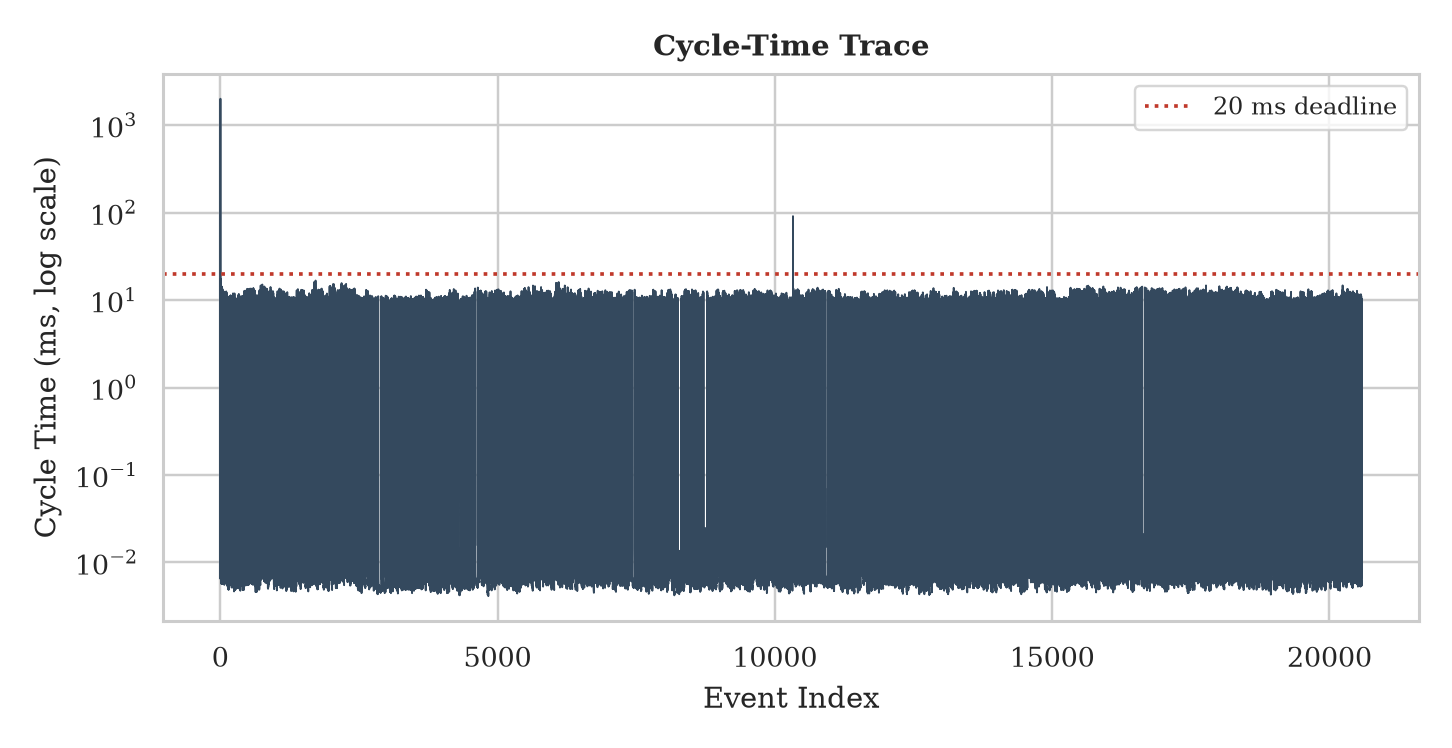
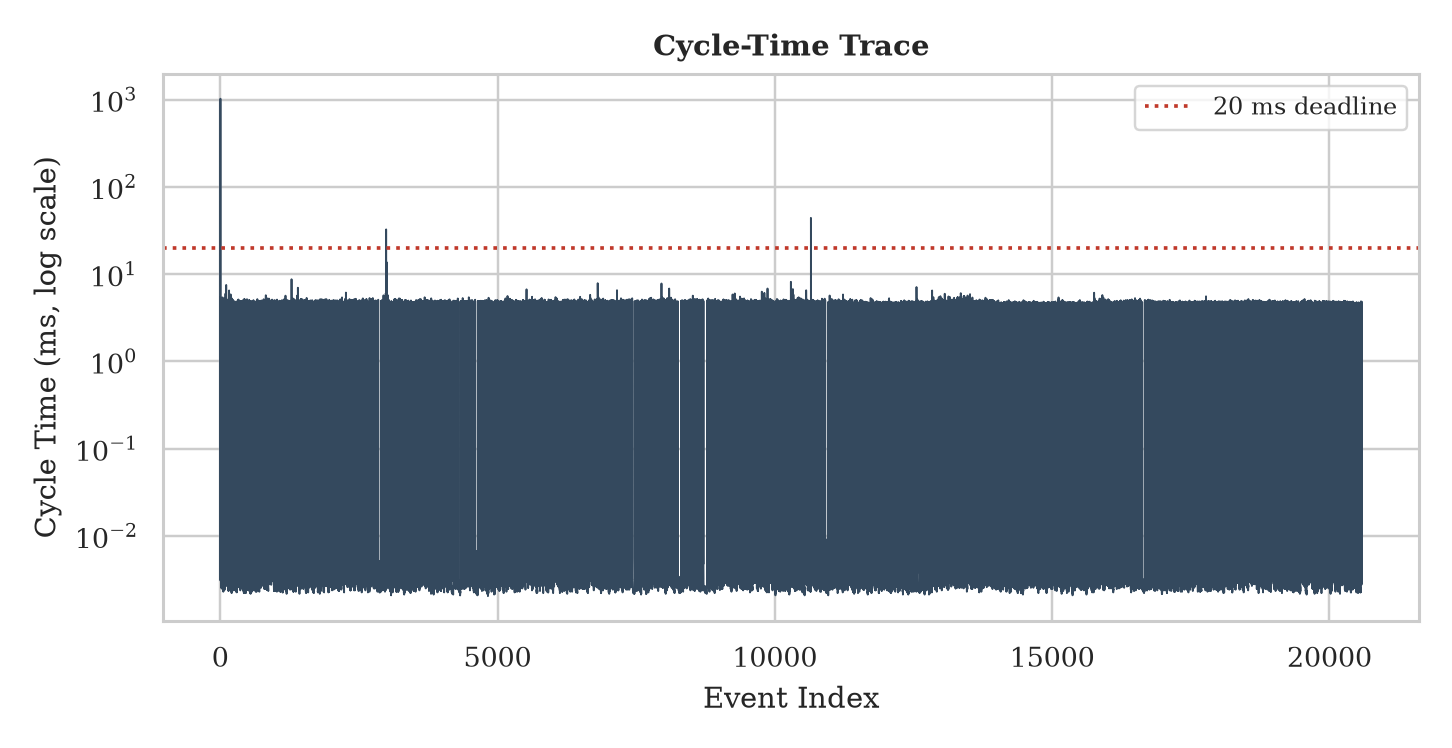
Add pluggable operating-state models and SimBench-based robustness check
Introduces FixedLoadProvider, SyntheticLoadProvider, EmpiricalSampledLoadProvider,
and TimeSeriesLoadProvider so the same pipeline can be run under a fixed baseline,
the existing deterministic table, or real independently-sourced SimBench load
profiles (E1-E4). Adds run_experiment_matrix.py to run all four and compare
violation counts, recall, latency, and loading/redispatch-voltage correlations.
Also fixes a plt.show() hang in generate_figures() that blocked headless runs.

diff --git a/engine.py b/engine.py
@@ -248,6 +248,74 @@ class PhysicsEngine:
 # ==============================================================================
 # SIMULATION CORE
 # ==============================================================================
+class SyntheticLoadProvider:
+    """Deterministic, reproducible hourly load-multiplier table, hashed from
+    the run seed and event index. This is the default operating-state model
+    used throughout the main study (E2)."""
+
+    def __init__(self, multipliers: np.ndarray, seed: int = RUN_SEED):
+        self.multipliers = multipliers
+        self.seed = seed
+
+    def get_multiplier(self, idx: int) -> float:
+        mi = int(hashlib.md5(f"{self.seed}_{idx}".encode()).hexdigest(), 16) % len(self.multipliers)
+        return float(self.multipliers[mi])
+
+
+class FixedLoadProvider:
+    """No operating-state variation: the network's nominal CIGRE loads are
+    used unchanged for every event. Control condition (E1) isolating how
+    much voltage-risk information the redispatch event carries on its own,
+    with background loading held fixed."""
+
+    def get_multiplier(self, idx: int) -> float:
+        return 1.0
+
+
+def load_simbench_profile(column: str = "G0-A_pload", scenario: int = 0) -> np.ndarray:
+    """Real, independently-published load-profile values from SimBench
+    (Meinecke et al. 2020, ODbL-1.0), used as the operating-state source for
+    E3/E4. Decoupled from SimBench's own grid topology: this returns only the
+    relative load-scaling time series, applied here to the unrelated CIGRE MV
+    network. `column` defaults to a general commercial/business profile
+    (BDEW G0-A), the closest standard category to an MV feeder mix."""
+    import simbench as sb
+
+    profiles = sb.get_all_simbench_profiles(scenario)["load"]
+    return profiles[column].to_numpy()
+
+
+class EmpiricalSampledLoadProvider:
+    """Real SimBench load values drawn i.i.d. (with replacement), seeded by
+    run seed and event index, breaking any correlation with event order.
+    Isolates whether the loading-voltage relationship reported under
+    SyntheticLoadProvider (E2) depends on that provider's own deterministic,
+    hashed construction, or holds under an operating-state source sampled
+    independently of the event stream (E3; see Sec. Limitations)."""
+
+    def __init__(self, values: np.ndarray, seed: int = RUN_SEED):
+        self.values = values
+        self.seed = seed
+
+    def get_multiplier(self, idx: int) -> float:
+        rng = np.random.default_rng([self.seed, idx])
+        return float(rng.choice(self.values))
+
+
+class TimeSeriesLoadProvider:
+    """Real SimBench load values used in their original time-ordered
+    sequence (event index modulo profile length), preserving the profile's
+    real temporal structure -- unlike EmpiricalSampledLoadProvider's i.i.d.
+    draws. Tests whether the loading-voltage relationship holds under a
+    realistic, time-varying operating state (E4)."""
+
+    def __init__(self, values: np.ndarray):
+        self.values = values
+
+    def get_multiplier(self, idx: int) -> float:
+        return float(self.values[idx % len(self.values)])
+
+
 class GridSimulator:
     def __init__(self):
         self.prop_ctrl = VoltageAwareController(DER_CAPACITY_MW)
@@ -272,17 +340,19 @@ class GridSimulator:
             1.20, 1.05, 0.81, 0.44
         ])
 
-    def run_streaming_pipeline(self, stream: np.ndarray):
+    def run_streaming_pipeline(self, stream: np.ndarray, load_provider=None):
+        if load_provider is None:
+            load_provider = SyntheticLoadProvider(self.load_multipliers)
         selector = OnlineSmartSelector(stream)
         records = []
         prev = float(stream[0]) if len(stream) else 0.0
 
         for idx, load in enumerate(stream):
             load = float(load)
-            
-            # Apply dynamic load mapping (using deterministic hash to keep events reproducible)
-            mult_idx = int(hashlib.md5(f"{RUN_SEED}_{idx}".encode()).hexdigest(), 16) % len(self.load_multipliers)
-            self.physics.set_dynamic_load(self.load_multipliers[mult_idx])
+
+            # Operating-state model is pluggable (Sec. Experimental Scope);
+            # default reproduces the deterministic synthetic multiplier table.
+            self.physics.set_dynamic_load(load_provider.get_multiplier(idx))
 
             t0 = time.perf_counter()
 
@@ -383,16 +453,18 @@ class GridSimulator:
         summary_df = pd.DataFrame([summary])
         return audited, summary_df
 
-    def run_recall_audit(self, cycle_df: pd.DataFrame, sample_size: int = 500, seed: int = RUN_SEED):
+    def run_recall_audit(self, cycle_df: pd.DataFrame, sample_size: int = 500, seed: int = RUN_SEED, load_provider=None):
         """Estimates the event-selector's false-negative rate on real data.
 
         Non-critical events never receive a physics solve in the streaming
         loop, so we can't know from cycle_df alone whether the selector missed
         any real violations. This draws a random sample of events the selector
         called non-critical and runs real AC power flow on them (replaying the
-        same per-event load multiplier used in the original streaming pass),
+        same per-event operating state used in the original streaming pass),
         to get an honest, sample-based estimate with a confidence interval.
         """
+        if load_provider is None:
+            load_provider = SyntheticLoadProvider(self.load_multipliers)
         noncritical = cycle_df[cycle_df["critical_event"] == False]
         rng = np.random.default_rng(seed)
         n = min(sample_size, len(noncritical))
@@ -401,8 +473,7 @@ class GridSimulator:
 
         converged_flags, violation_flags, vm_results = [], [], []
         for _, row in sample.iterrows():
-            mult_idx = int(hashlib.md5(f"{RUN_SEED}_{int(row['event_idx'])}".encode()).hexdigest(), 16) % len(self.load_multipliers)
-            self.physics.set_dynamic_load(self.load_multipliers[mult_idx])
+            self.physics.set_dynamic_load(load_provider.get_multiplier(int(row["event_idx"])))
             result = self.physics.solve_reference(row["load_mw"])
             converged_flags.append(result.converged)
             vm_results.append(result.min_vm_pu)
@@ -496,7 +567,6 @@ class GridSimulator:
         ax1.legend(fontsize=8, loc="best")
         fig1.tight_layout()
         fig1.savefig(os.path.join(OUTPUT_DIR, "Voltage_Stability.png"))
-        plt.show()
         plt.close(fig1)
 
         fig2, ax2 = plt.subplots(figsize=(6.2, 3.4))
@@ -507,7 +577,6 @@ class GridSimulator:
         ax2.set_ylabel("Million Ops/Sec")
         fig2.tight_layout()
         fig2.savefig(os.path.join(OUTPUT_DIR, "Scalability.png"))
-        plt.show()
         plt.close(fig2)
 
         fig4, ax4 = plt.subplots(figsize=(6.6, 3.4))
@@ -520,7 +589,6 @@ class GridSimulator:
         ax4.legend(fontsize=8)
         fig4.tight_layout()
         fig4.savefig(os.path.join(OUTPUT_DIR, "Cycle_Time_Trace.png"))
-        plt.show()
         plt.close(fig4)
 
 

diff --git a/run_experiment_matrix.py b/run_experiment_matrix.py
@@ -1,0 +1,115 @@
+"""
+Runs the E1-E4 operating-state experiment matrix requested in review and
+writes final_output/experiment_matrix.csv.
+
+Each row applies the same real redispatch event stream and the same
+selector/validation pipeline; only the operating-state (load) model differs:
+
+  E1  FixedLoadProvider           nominal CIGRE loads, no variation (control)
+  E2  SyntheticLoadProvider       deterministic hashed table (main-study default)
+  E3  EmpiricalSampledLoadProvider  real SimBench values, drawn i.i.d. per event
+  E4  TimeSeriesLoadProvider      real SimBench values, in original time order
+
+Usage
+-----
+    python run_experiment_matrix.py
+"""
+import numpy as np
+import pandas as pd
+
+from engine import (
+    GridSimulator,
+    LocalCsvIngestionLayer,
+    FixedLoadProvider,
+    SyntheticLoadProvider,
+    EmpiricalSampledLoadProvider,
+    TimeSeriesLoadProvider,
+    load_simbench_profile,
+    OUTPUT_DIR,
+)
+import os
+
+
+def summarize_run(label, cycle_df, recall_summary_df, load_provider, simulator):
+    critical = cycle_df[cycle_df["critical_event"] == True]
+    solved = critical.dropna(subset=["raw_vm_ref_pu"])
+    n_events = len(cycle_df)
+    n_critical = len(critical)
+    n_violations = int((solved["raw_vm_ref_pu"] < 0.90).sum())
+    n_solver_failures = int((~solved["converged"]).sum())
+
+    recall_row = recall_summary_df.iloc[0]
+    fn_rate = recall_row["estimated_fn_rate"]
+    est_missed = recall_row["estimated_missed_violations_in_population"]
+    est_total_violations = n_violations + est_missed
+    est_recall = n_violations / est_total_violations if est_total_violations else float("nan")
+
+    critical_latency = critical["cycle_time_ms"]
+    deadline_miss_rate = (critical["deadline_miss"].sum() / n_critical) if n_critical else float("nan")
+
+    # r(load multiplier, voltage) and r(redispatch magnitude, voltage) on solved critical events
+    if len(solved) > 2:
+        multipliers = np.array([load_provider.get_multiplier(int(idx)) for idx in solved["event_idx"]])
+        v = solved["raw_vm_ref_pu"].to_numpy()
+        redispatch = solved["load_mw"].to_numpy()
+        r_load_v = float(np.corrcoef(multipliers, v)[0, 1]) if np.std(multipliers) > 0 else float("nan")
+        r_redispatch_v = float(np.corrcoef(redispatch, v)[0, 1]) if np.std(redispatch) > 0 else float("nan")
+    else:
+        r_load_v = float("nan")
+        r_redispatch_v = float("nan")
+
+    return {
+        "experiment": label,
+        "n_events": n_events,
+        "n_critical": n_critical,
+        "n_violations": n_violations,
+        "n_solver_failures": n_solver_failures,
+        "sampled_fn_rate": fn_rate,
+        "estimated_recall": est_recall,
+        "nr_calls_critical_path": len(solved),
+        "median_latency_ms": float(critical_latency.median()) if n_critical else float("nan"),
+        "p95_latency_ms": float(critical_latency.quantile(0.95)) if n_critical else float("nan"),
+        "p99_latency_ms": float(critical_latency.quantile(0.99)) if n_critical else float("nan"),
+        "deadline_miss_rate": deadline_miss_rate,
+        "r_load_vs_voltage": r_load_v,
+        "r_redispatch_vs_voltage": r_redispatch_v,
+    }
+
+
+def main():
+    simulator = GridSimulator()
+    ingest = LocalCsvIngestionLayer()
+    stream = ingest.fetch_stream()
+    print(f"Loaded real event stream: n={len(stream)}")
+
+    simbench_vals = load_simbench_profile()
+    print(f"Loaded SimBench profile (G0-A_pload): n={len(simbench_vals)}, "
+          f"min={simbench_vals.min():.4f}, max={simbench_vals.max():.4f}")
+
+    experiments = {
+        "E1_fixed": FixedLoadProvider(),
+        "E2_synthetic": SyntheticLoadProvider(simulator.load_multipliers),
+        "E3_simbench_iid": EmpiricalSampledLoadProvider(simbench_vals),
+        "E4_simbench_timeseries": TimeSeriesLoadProvider(simbench_vals),
+    }
+
+    rows = []
+    for label, provider in experiments.items():
+        print(f"\n=== Running {label} ===")
+        cycle_df = simulator.run_streaming_pipeline(stream, load_provider=provider)
+        _, recall_summary_df = simulator.run_recall_audit(cycle_df, load_provider=provider)
+        row = summarize_run(label, cycle_df, recall_summary_df, provider, simulator)
+        rows.append(row)
+        print({k: (round(v, 4) if isinstance(v, float) else v) for k, v in row.items()})
+
+        cycle_df.to_csv(os.path.join(OUTPUT_DIR, f"cycle_times_{label}.csv"), index=False)
+
+    matrix_df = pd.DataFrame(rows)
+    out_path = os.path.join(OUTPUT_DIR, "experiment_matrix.csv")
+    matrix_df.to_csv(out_path, index=False)
+    print(f"\nSaved experiment matrix to {out_path}")
+    print(matrix_df.to_string(index=False))
+
+
+if __name__ == "__main__":
+    main()

diff --git a/README.md b/README.md
@@ -1,24 +1,40 @@
 # rt-grid-streaming-engine
 
-Reference implementation for the paper: *"Streaming AC Verification for Real-Time Redispatch Monitoring: A Recall and Latency Study."*
+Reference implementation for the paper: *"Streaming AC Voltage-Risk Screening for Distribution Grids: Recall and Latency under Real Redispatch Events."*
 
-This repository implements a streaming AC power-flow verification pipeline: a fast, physics-free statistical event selector, combined with selective Newton-Raphson (NR) AC validation, evaluated on one year of real German TSO redispatch telemetry against the CIGRE medium-voltage (MV) benchmark network.
+This repository implements a streaming AC power-flow screening pipeline: a fast, physics-free statistical event selector, combined with selective Newton-Raphson (NR) AC validation, driven by one year of real German TSO redispatch telemetry applied to the CIGRE medium-voltage (MV) benchmark network. The redispatch events are real operational records; the resulting voltage outcomes are obtained from AC power-flow *simulation* on a benchmark network, not measured feeder telemetry — see "Experimental Scope" below.
 
 ## Key Features
 
-- **Real data:** Driven by real redispatch telemetry (`data/redispatch_1yr.csv`, N=20,586 events), not synthetic-only.
+- **Real event stream:** Driven by real redispatch telemetry (`data/redispatch_1yr.csv`, N=20,586 events), not synthetic-only.
 - **Physics-based validation:** Full AC Newton-Raphson power flow (with backward/forward-sweep fallback) on flagged events, not a surrogate.
+- **Pluggable operating-state models:** the same pipeline runs under a fixed baseline, a deterministic synthetic table, or real independently-sourced SimBench load profiles (see below), to test whether conclusions depend on how the network's background loading is generated.
 - **Measured, not assumed, detection recall:** A sampled audit with a Wilson-score confidence interval quantifies what the fast selector actually misses.
 - **Measured latency:** Per-path cycle-time distributions against a 20 ms control-cycle deadline.
 - **Reproducible:** Fixed seed, pinned dependency versions, and a SHA-256 hash of the input data recorded at run time.
 
+## Experimental Scope
+
+Each simulated event combines three distinct components: (1) a real redispatch record from German TSO operational data; (2) the CIGRE MV benchmark network, a standardised reproducible model, not a specific measured feeder; and (3) a network operating state (background loading) applied at the moment the event is evaluated. The voltage outcome is a **simulated voltage-limit violation**, not a claim of a real, measured grid violation. See `paper.tex`, Sec. "Experimental Scope and Terminology," for the full framing.
+
 ## Methodology
 
-The pipeline screens each incoming redispatch event with an $O(1)$ statistical filter (percentile and rate-of-change thresholds on event magnitude, no power-flow solve). Only flagged ("critical") events receive a full AC Newton-Raphson solve against the CIGRE MV benchmark network (15 buses, PV/wind DER), mapped onto the setpoint of the network's largest controllable generator. Three dispatch policies (baseline, droop, voltage-aware) are compared against this ground truth.
+The pipeline screens each incoming redispatch event with an $O(1)$ statistical filter (percentile and rate-of-change thresholds on event magnitude, no power-flow solve). Only flagged ("critical") events receive a full AC Newton-Raphson solve against the CIGRE MV benchmark network (15 buses, PV/wind DER), mapped onto the setpoint of the network's largest controllable generator. Three dispatch policies (baseline, droop, voltage-aware) are evaluated against this ground truth, though in practice they are dispatch-equivalent on this dataset (the curtailment gate never activates within this generator's capacity — see the paper's Discussion).
 
-The minimum steady-state voltage threshold (0.90 p.u.) is set to the legally compliant EN 50160:2022 §4.2.2.1 worst-case bound for low-voltage supply (230 V −15%), consistent with the ±10%/−15% envelope confirmed in VDE FNN Leitfaden Anhang C, Table 2 (*Langsame Spannungsänderung*).
+The minimum steady-state voltage threshold (0.90 p.u.) follows EN 50160:2022 §4.2.2.1's worst-case bound, defined there for low-voltage supply; we apply it at MV as a conservative proxy, consistent with the ±10% steady-state band the German MV connection code VDE-AR-N 4110 specifies directly at this voltage level.
 
-See `paper.tex` for the full methodology, results, and honestly-reported limitations (the selector's real detection recall is far from complete — see the paper's Results and Discussion sections).
+### Operating-state models (`engine.py`)
+
+The load-multiplier source is a pluggable `load_provider`, passed to `GridSimulator.run_streaming_pipeline()` and `run_recall_audit()`:
+
+- `FixedLoadProvider` — no operating-state variation; nominal CIGRE loads for every event (control condition, E1).
+- `SyntheticLoadProvider` — deterministic table hashed from the run seed and event index (main-study default, E2).
+- `EmpiricalSampledLoadProvider` — real SimBench load values, drawn i.i.d. per event, seeded (E3).
+- `TimeSeriesLoadProvider` — real SimBench load values, in their original time-ordered sequence (E4).
+
+`load_simbench_profile()` loads real, independently published load-profile data via the [`simbench`](https://pypi.org/project/simbench/) package (Meinecke et al. 2020, ODbL-1.0-licensed); no separate download is required, the profile CSVs ship inside the package.
+
+See `paper.tex` for the full methodology, results, and honestly-reported limitations (the selector's estimated detection recall is far from complete — see the paper's Results and Discussion sections).
 
 ## Prerequisites
 
@@ -48,6 +64,14 @@ See `paper.tex` for the full methodology, results, and honestly-reported limitat
    ```
 
    *Outputs (audit summary, recall audit, latency tables, figures, and a reproducibility header with pinned versions + input data hash) are saved to `final_output/`.*
+
+4. **(Optional) Run the operating-state experiment matrix (E1–E4):**
+
+   ```bash
+   python run_experiment_matrix.py
+   ```
+
+   *Runs the same event stream and pipeline under all four operating-state models (fixed, synthetic, SimBench i.i.d., SimBench time-series) and saves a per-experiment comparison (`final_output/experiment_matrix.csv`), including violation counts, sampled recall, latency percentiles, and the loading-vs-voltage / redispatch-vs-voltage correlations for each.*
 
 ## Citation
 
